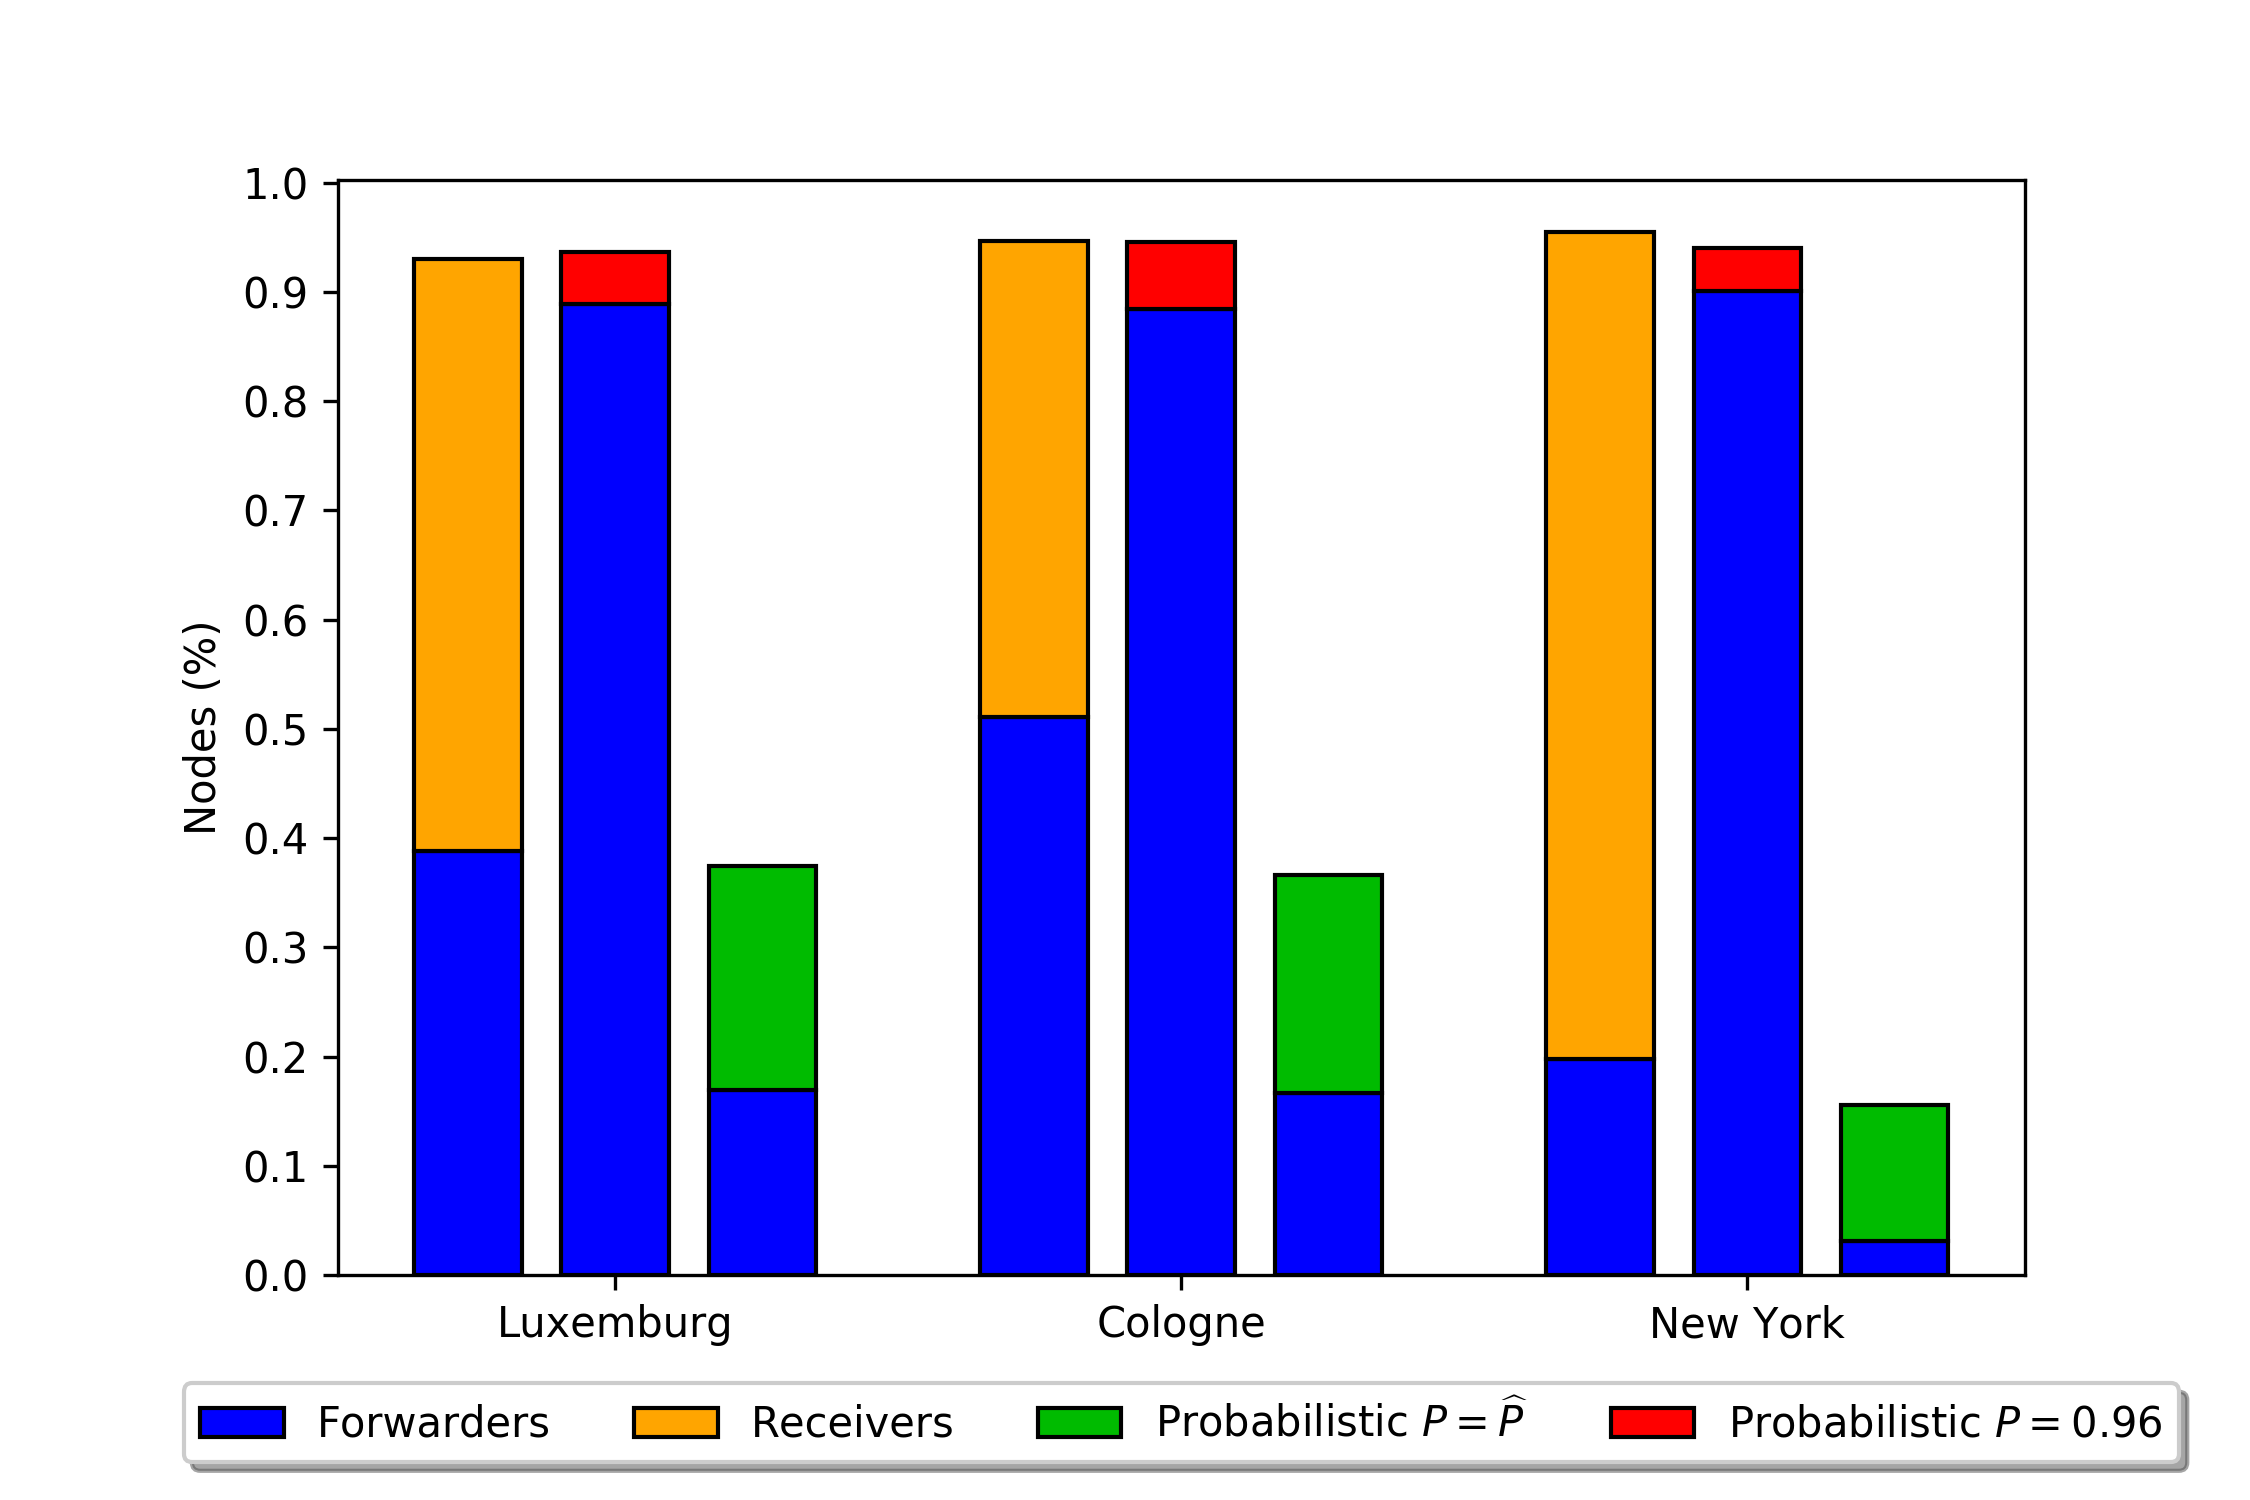
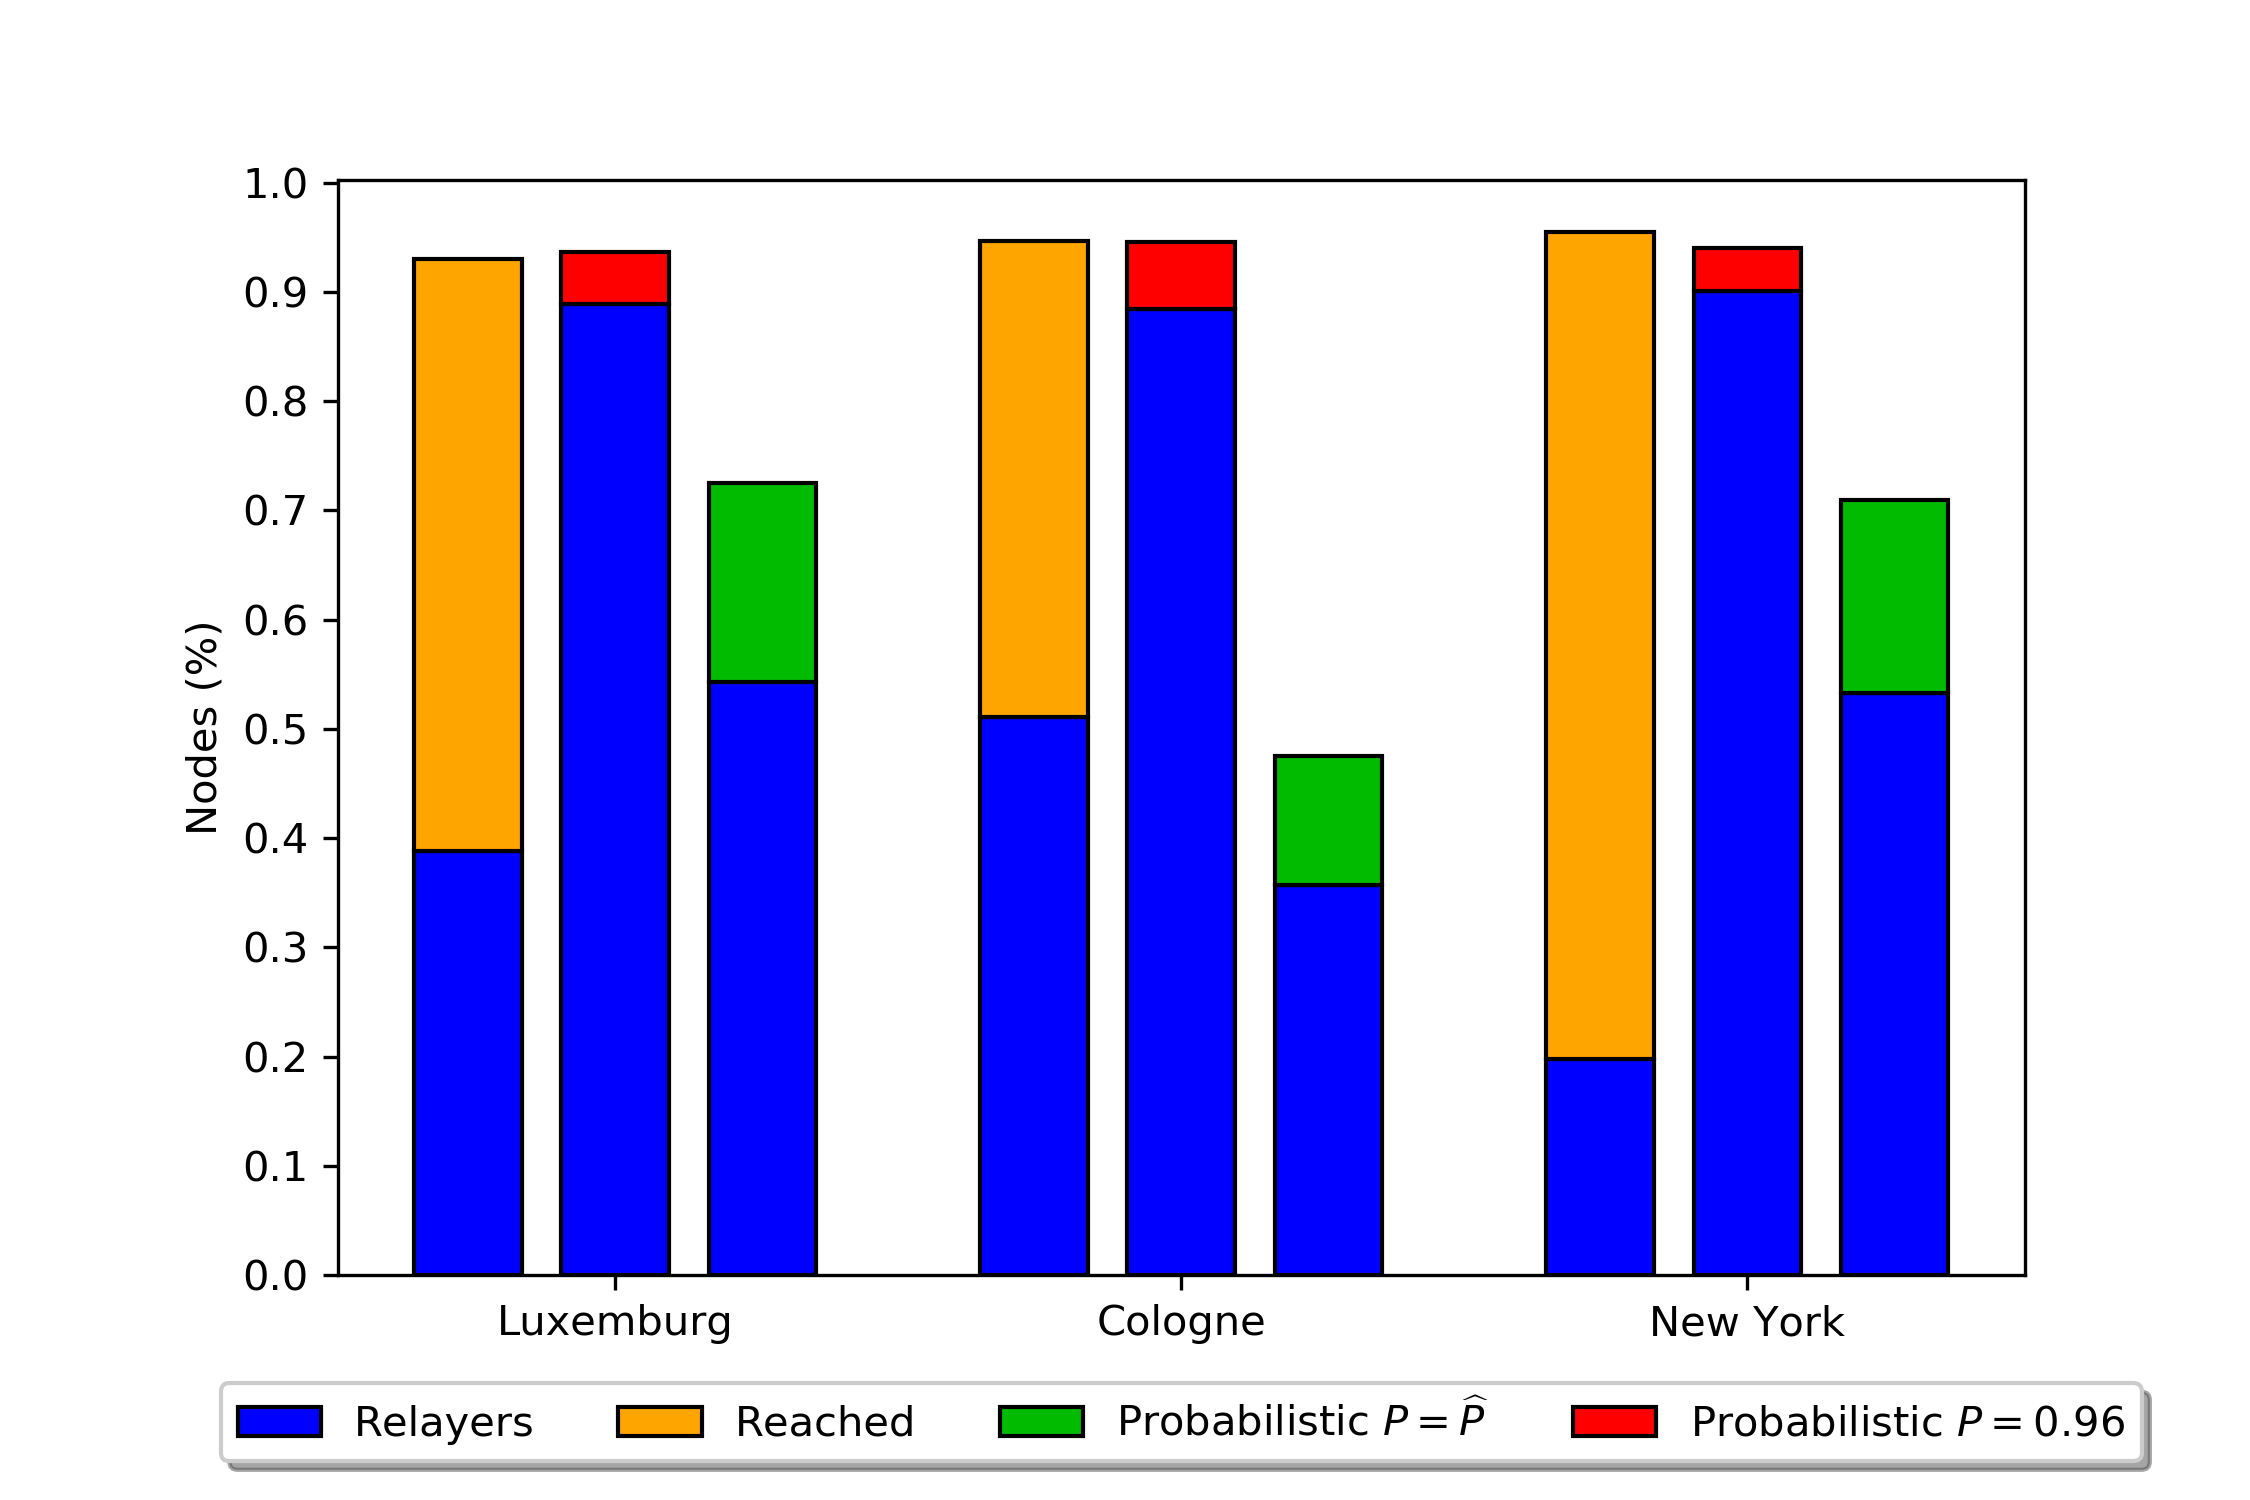
changed prob comparison with other prob

diff --git a/grafici/graph-TC-prob-performance.py b/grafici/graph-TC-prob-performance.py
@@ -1,6 +1,4 @@
 
-# luxemburg 1000, probabilistic alg
-
 from matplotlib import pyplot as plt
 import numpy as np
 
@@ -10,34 +8,60 @@ N_CARS_LUX = 790
 N_CARS_NY = 600
 N_CARS_COL = 436
 
-'''
-# LUXEMBURG - 1000
-recv = np.array([0.71, 5.12, 10.58, 13.84, 15.93, 19.3, 30.15, 36.66, 40.79, 42.38, 52.51, 53.83, 57.2, 68.13, 72.48, 70.73, 82.7, 86.76, 93.63, 97]) / 100
-relay = np.array([0.26, 4.065, 12.5, 21.9, 31.56, 45.84, 83.23, 115.83, 144.85, 167.77, 229.29, 254.4, 293.18, 377.255, 428.59, 446.59, 555.0225, 616.9, 702.75, 760.125]) / N_CARS_LUX
-'''
 
-'''
+
+# LUXEMBURG - 1000
+recv_lux = np.array([0.71, 5.12, 10.58, 13.84, 15.93, 19.3, 30.15, 36.66, 40.79, 42.38, 52.51, 53.83, 57.2, 68.13, 72.48, 70.73, 82.7, 86.76, 93.63, 99]) / 100
+relay_lux = np.array([0.26, 4.065, 12.5, 21.9, 31.56, 45.84, 83.23, 115.83, 144.85, 167.77, 229.29, 254.4, 293.18, 377.255, 428.59, 446.59, 555.0225, 616.9, 702.75, 760.125]) / N_CARS_LUX
+fig, ax = plt.subplots()
+p1 = ax.plot(p, recv_lux)
+p2 = ax.plot(p, relay_lux)
+p3 = ax.plot(p, recv_lux-relay_lux)
+ax.legend((p1[0],p2[0],p3[0]), ['Receivers', 'Relay', 'Difference'])
+plt.xticks(np.arange(0, 1.1, 0.1))
+plt.yticks(np.arange(0, 1.1, 0.1))
+plt.title("Luxembourg, probabilistic alg")
+plt.show()
+plt.close()
+
+# -->  optimal at circa P=75%
+
+
+
+
 # NEW YORK - 5003
-recv = np.array([0.65, 3.9, 8.9, 17.99, 25.96, 28.46, 33.86, 42.18, 43.04, 49.82, 55.34, 54.66, 61.91, 70.65, 70.94, 78.95, 79.96, 84.72, 92.49, 98]) / 100
-relay = np.array([0.18, 2.5, 7.8, 21.86, 39.37, 51.0975, 71.16, 100.79, 116.4475, 148.9, 183.1025, 197, 241.28, 296.07, 319.75, 379.25, 407.46, 457.23, 526.91, 581.945]) / N_CARS_NY
-'''
+recv_ny = np.array([0.65, 3.9, 8.9, 17.99, 25.96, 28.46, 33.86, 42.18, 43.04, 49.82, 55.34, 54.66, 61.91, 70.65, 70.94, 78.95, 79.96, 84.72, 92.49, 99]) / 100
+relay_ny = np.array([0.18, 2.5, 7.8, 21.86, 39.37, 51.0975, 71.16, 100.79, 116.4475, 148.9, 183.1025, 197, 241.28, 296.07, 319.75, 379.25, 407.46, 457.23, 526.91, 581.945]) / N_CARS_NY
+fig, ax = plt.subplots()
+p1 = ax.plot(p, recv_ny)
+p2 = ax.plot(p, relay_ny)
+p3 = ax.plot(p, recv_ny-relay_ny)
+ax.legend((p1[0],p2[0],p3[0]), ['Receivers', 'Relay', 'Difference'])
+plt.xticks(np.arange(0, 1.1, 0.1))
+plt.yticks(np.arange(0, 1.1, 0.1))
+plt.title("New York, probabilistic alg")
+plt.show()
+plt.close()
+
+# -->  optimal at circa P=70%
 
 
 # COLOGNE - 1000
-recv = np.array([0.48,0.97,1.71,2.14,4.11,5.42,7.23,8.50,12.98,15.69,22.44,28.98,31.16,40.27,47.53,53.66,62.74,71.87,84.38,95.19]) / 100
-relay = np.array([0.115,0.445,1.1325,1.8,4.49,7.07,10.8775,15.01,25.375,34.3675,53.605,75.94,88.6725,123.05,155.6275,187.0325,232.6225,281.735,349.585,415.035]) / N_CARS_COL
-
-
-
-
-
-plt.plot(p, recv)
-plt.plot(p, relay)
-
+recv_col = np.array([0.48,0.97,1.71,2.14,4.11,5.42,7.23,8.50,12.98,15.69,22.44,28.98,31.16,40.27,47.53,53.66,62.74,71.87,84.38,99.19]) / 100
+relay_col = np.array([0.115,0.445,1.1325,1.8,4.49,7.07,10.8775,15.01,25.375,34.3675,53.605,75.94,88.6725,123.05,155.6275,187.0325,232.6225,281.735,349.585,415.035]) / N_CARS_COL
+fig, ax = plt.subplots()
+p1 = ax.plot(p, recv_col)
+p2 = ax.plot(p, relay_col)
+p3 = ax.plot(p, recv_col-relay_col)
+ax.legend((p1[0],p2[0],p3[0]), ['Receivers', 'Relay', 'Difference'])
 plt.xticks(np.arange(0, 1.1, 0.1))
 plt.yticks(np.arange(0, 1.1, 0.1))
-
+plt.title("Cologne, probabilistic alg")
 plt.show()
+plt.close()
+
+# -->  optimal at circa P=75%
+
 
 
 

diff --git a/grafici/graph-TC-comparison.py b/grafici/graph-TC-comparison.py
@@ -54,8 +54,10 @@ N = 3
 means_recv = (0.9917-(355.48/790), 0.9463-(222.75/436), 0.9547-(118.63/600))
 means_frw = (305.71/787, 222.75/436, 118.63/600)
 
-means_frw_low = (133.8/790, 72.78/436, 18.86/600)
-means_low_prob = (0.3745-means_frw_low[0], 0.366- means_frw_low[1], 0.1552- means_frw_low[2])
+#means_frw_low = (133.8/790, 72.78/436, 18.86/600)
+#means_low_prob = (0.3745-means_frw_low[0], 0.366- means_frw_low[1], 0.1552- means_frw_low[2])
+means_frw_low = (428.59/790, 155.623/436, 319.7575/600)
+means_low_prob = (0.7248-means_frw_low[0], 0.4753-means_frw_low[1], 0.7094-means_frw_low[2])
 
 means_frw_high = (702/790, 385.5/436, 540.6/600)
 means_high_prob = (0.9362-means_frw_high[0], 0.9459- means_frw_high[1], 0.9398- means_frw_high[2])
@@ -105,11 +107,11 @@ plt.ylabel('Nodes (%)')
 plt.title('')
 plt.xticks(ind+width+gap, ('Luxemburg', 'Cologne', 'New York'))
 plt.yticks(np.arange(0, 1.1, 0.1))
-plt.legend((p3[0], p2[0], p6[0], p4[0]), ('Relayers', 'Receivers', r'Probabilistic $P=\widehat{P}$', r'Probabilistic $P=0.96$'), 
+plt.legend((p3[0], p2[0], p6[0], p4[0]), ('Relayers', 'Reached', r'Probabilistic $P=\widehat{P}$', r'Probabilistic $P=0.96$'), 
 	loc='upper center', bbox_to_anchor=(0.5, -0.08),
     fancybox=True, shadow=True, ncol=5)
 
 
 plt.gcf().subplots_adjust(bottom=0.15, left=0.15)
-plt.show()
-#plt.savefig('img.png', dpi=300)
+#plt.show()
+plt.savefig('grafici/top_car/prob_comparison.png', dpi=300)
